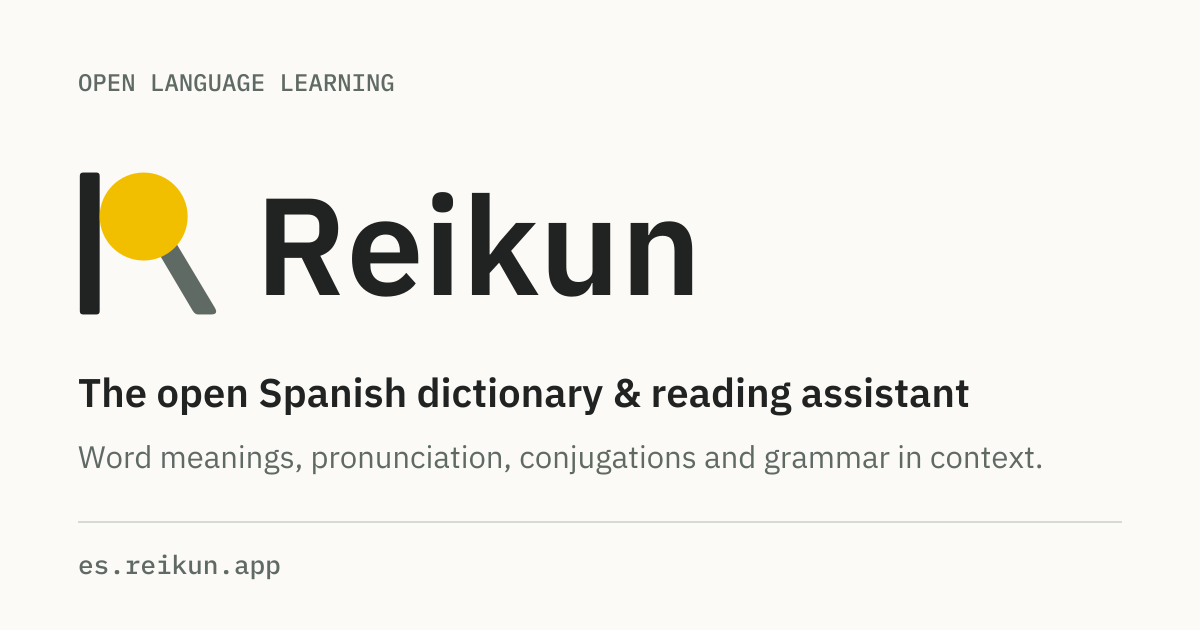
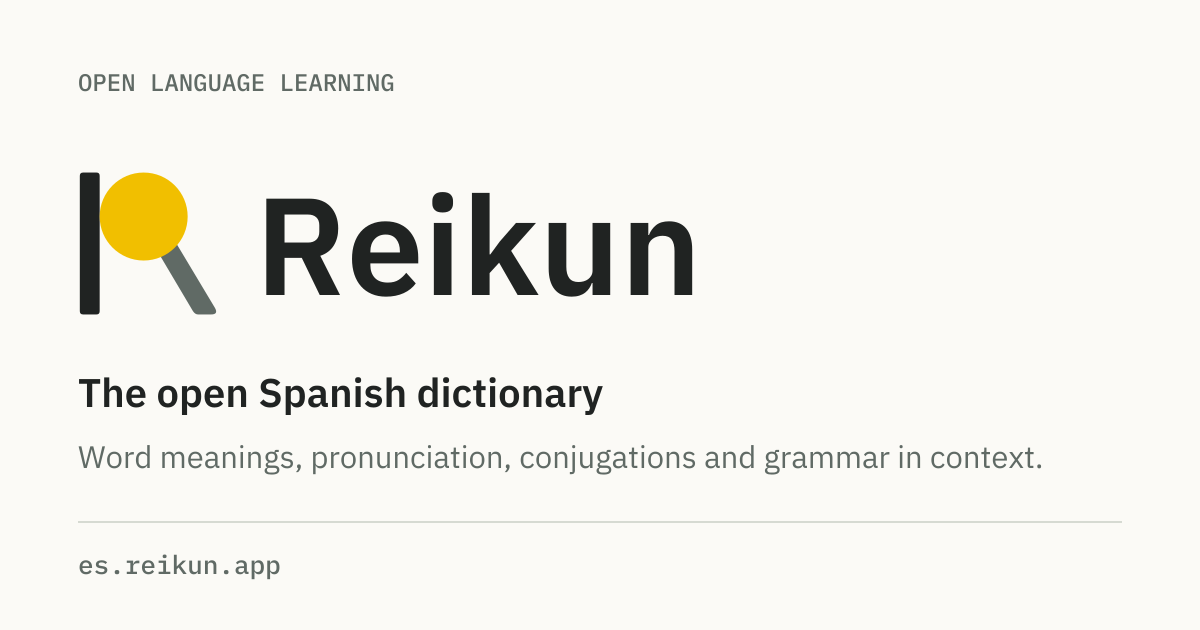
feat(assets): dark PNG variants + the trimmed Spanish tagline
Every emblem variant now ships a 496 px PNG (the dark ones previously
skipped it: emblem-dark, emblem-es-dark, emblem-graphite-dark), and
the Spanish edition's wordmark line drops "& reading assistant" —
the es site is search-first for now (pack.ts, og:title, the es social
card and its manifest all trimmed to "The open Spanish dictionary").
The es host's install metadata gets its own site-es.webmanifest
pointing at the gold-sun icons.

Changed region(s): [[0.4933, 0.6032, 0.8325, 0.6635]]

diff --git a/web/static/theme-init.js b/web/static/theme-init.js
@@ -34,12 +34,17 @@
 				var meta = document.getElementById('theme-color');
 				if (meta) meta.setAttribute('content', bg);
 				// The Spanish edition's origin swaps the brand artwork for the
-				// gold-sun set (same mark, Spanish accent) — icon + touch icon.
+				// gold-sun set (same mark, Spanish accent) — icon + touch icon +
+				// manifest + the data-pack flag the CSS theme rules key on (the
+				// dark emblem swap in app.css picks the es artwork through it).
 				// The favicon SVG already adapts to dark chrome via its own styles.
 				if (location.hostname === 'es.reikun.app') {
+					document.documentElement.dataset.pack = 'es';
 					var icon = document.querySelector('link[rel="icon"][type="image/svg+xml"]');
 					if (icon) icon.setAttribute('href', icon.getAttribute('href').replace(/favicon\.svg/, 'favicon-es.svg'));
 					var touch = document.querySelector('link[rel="apple-touch-icon"]');
 					if (touch) touch.setAttribute('href', touch.getAttribute('href').replace(/apple-touch-icon\.png/, 'apple-touch-icon-es.png'));
+					var manifest = document.querySelector('link[rel="manifest"]');
+					if (manifest) manifest.setAttribute('href', manifest.getAttribute('href').replace(/site\.webmanifest/, 'site-es.webmanifest'));
 				}
 			})();

diff --git a/scripts/build_brand_assets.py b/scripts/build_brand_assets.py
@@ -130,7 +130,7 @@ def main() -> None:
     ):
         name = "emblem" + suffix
         artwork = svg(title, 100, 100, mark(palette))
-        write(f"emblems/{name}.svg", artwork, **{f"{name}.png": 496} if "dark" not in name else {})
+        write(f"emblems/{name}.svg", artwork, **{f"{name}.png": 496})
 
     dark_rules = "".join(f".{k}{{fill:{v}}}" for k, v in zip(PATHS, SIGNAL_DARK, strict=True))
     adaptive = "<style>@media (prefers-color-scheme:dark){" + dark_rules + "}</style>\n"
@@ -194,7 +194,7 @@ def main() -> None:
             lettering("OPEN LANGUAGE LEARNING", 78, 91, 24, SIGNAL[1], "mono-w500-latin"),
             mark(SPANISH, 73, 169, 149),
             lettering("Reikun", 255, 295, 138, SIGNAL[0]),
-            lettering("The open Spanish dictionary & reading assistant", 78, 407, 40, SIGNAL[0]),
+            lettering("The open Spanish dictionary", 78, 407, 40, SIGNAL[0]),
             lettering(
                 "Word meanings, pronunciation, conjugations and grammar in context.",
                 78,
@@ -209,7 +209,7 @@ def main() -> None:
     )
     write(
         "images/og-image-es.svg",
-        svg("Reikun — The open Spanish dictionary & reading assistant", 1200, 630, es_card),
+        svg("Reikun — The open Spanish dictionary", 1200, 630, es_card),
         **{"og-image-es.png": 1200},
     )
 
